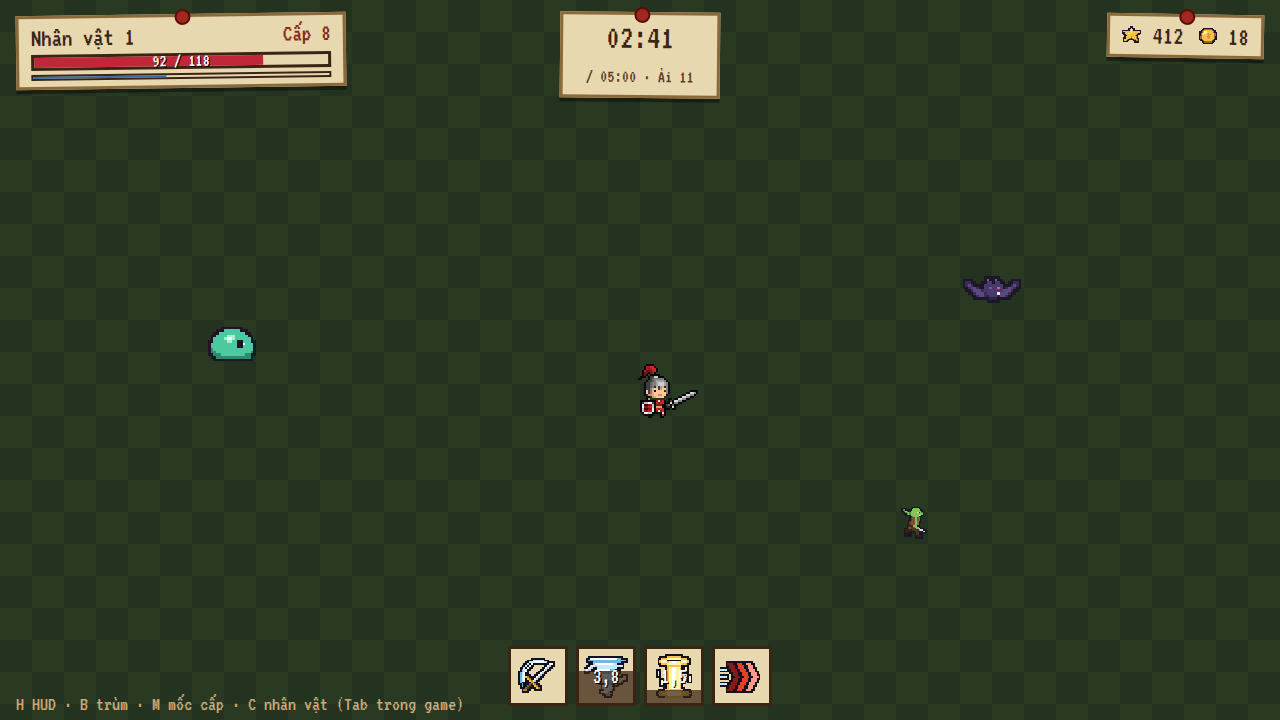
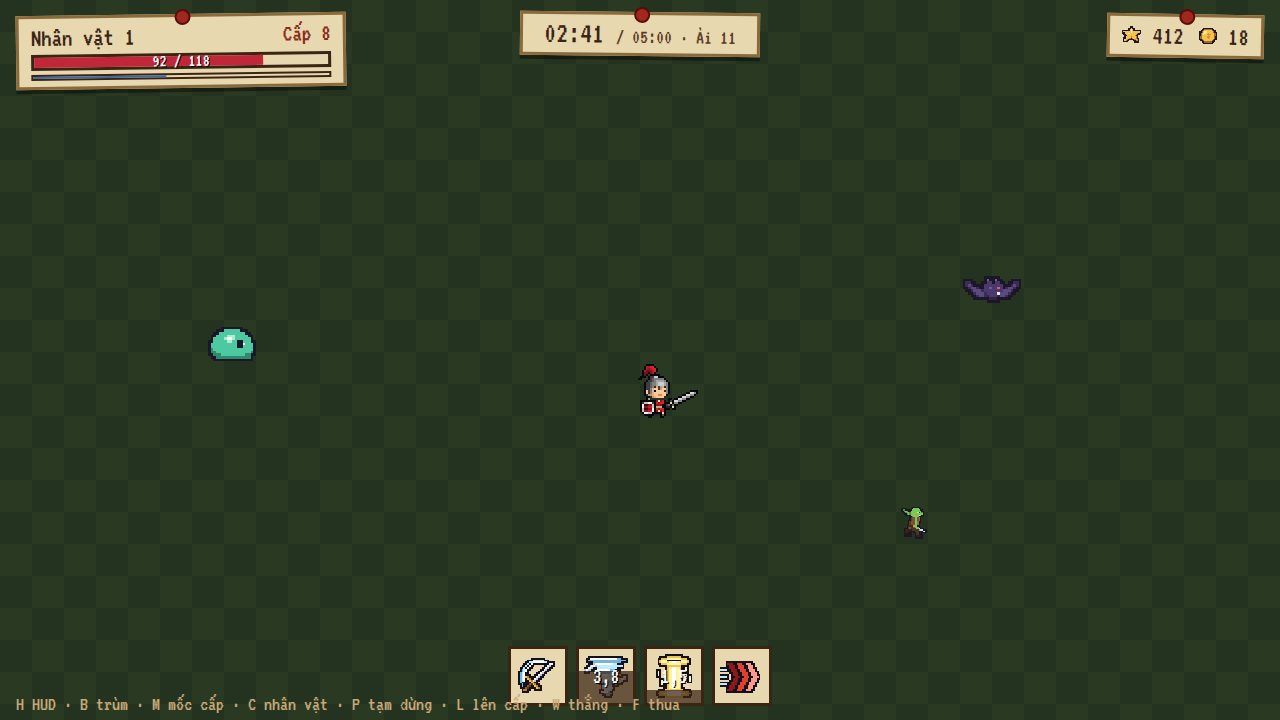
fix(design-web): the in-run clock is one horizontal line
User 2026-11-26: the clock slip took too much room; make it horizontal.
"02:41 / 05:00 · Ải 11" now sits on one short slip; the boss band moves
up under it.

Verified: HUD and boss views shot at 1280x720, top strip viewed

Changed region(s): [[0.4062, 0.0, 0.5938, 0.1528], [0.25, 0.9472, 0.5312, 1.0]]

diff --git a/design-web/games/bach-ai/screen-hud-journal.html b/design-web/games/bach-ai/screen-hud-journal.html
@@ -16,8 +16,8 @@
 .bar { height: 16px; border: 3px solid var(--ink); margin-top: 4px; position: relative; } .bar i { display: block; height: 100%; }
 .bar span { position: absolute; inset: -4px 0 0; text-align: center; font-size: 18px; color: #fff; text-shadow: 1px 1px 0 #000; }
 .xp { height: 6px; border-width: 2px; }
-.clock { left: 560px; top: 12px; width: 160px; text-align: center; font-size: 34px; transform: rotate(.6deg); }
-.clock small { font-size: 18px; color: var(--ink-soft); }
+.clock { left: 520px; top: 12px; width: 240px; text-align: center; font-size: 30px; line-height: 1; padding: 4px 10px; transform: rotate(.6deg); white-space: nowrap; }
+.clock small { font-size: 20px; color: var(--ink-soft); }
 .tally { right: 16px; top: 14px; font-size: 26px; transform: rotate(1deg); display: flex; gap: 14px; }
 .tally img { width: 20px; height: 20px; vertical-align: -2px; }
 .skills { position: absolute; left: 50%; bottom: 14px; transform: translateX(-50%); display: flex; gap: 8px; }
@@ -25,7 +25,7 @@
 .skills .cd { position: absolute; left: 0; right: 0; bottom: 0; background: #3a2414bb; }
 .skills .t { position: absolute; inset: 0; display: grid; place-items: center; font-size: 22px; color: #fff; text-shadow: 1px 1px 0 #000; }
 .ico { image-rendering: pixelated; background-repeat: no-repeat; }
-.boss { left: 340px; top: 100px; width: 600px; text-align: center; transform: rotate(-.4deg); }
+.boss { left: 340px; top: 70px; width: 600px; text-align: center; transform: rotate(-.4deg); }
 .boss b { font-weight: normal; font-size: 30px; color: var(--ink-red); }
 .dim { position: absolute; inset: 0; background: #0b0810b8; }
 .sheet { position: absolute; left: 160px; top: 60px; width: 960px; height: 600px; background: var(--paper); border: 4px solid var(--edge); box-shadow: 0 10px 0 #0008; padding: 24px 40px; transform: rotate(-.5deg); }
@@ -49,7 +49,7 @@
   <img class="mob" src="../../../games/bach-ai/assets/sprites/custom/knight/knight.png" style="left:608px;top:330px;width:96px;height:96px">
   <div class="slip me"><b>Nhân vật 1</b><span class="lv">Cấp 8</span>
     <div class="bar"><i style="width:78%;background:#c0283a"></i><span>92 / 118</span></div><div class="bar xp"><i style="width:45%;background:#3a6aaa"></i></div></div>
-  <div class="slip clock">02:41<br><small>/ 05:00 · Ải 11</small></div>
+  <div class="slip clock">02:41 <small>/ 05:00 · Ải 11</small></div>
   <div class="slip tally"><span><img src="assets/lobby/star.png"> 412</span><span><img src="assets/lobby/coin.png"> 18</span></div>
   <div class="skills" id="skills"></div>
   <div id="over"></div>
